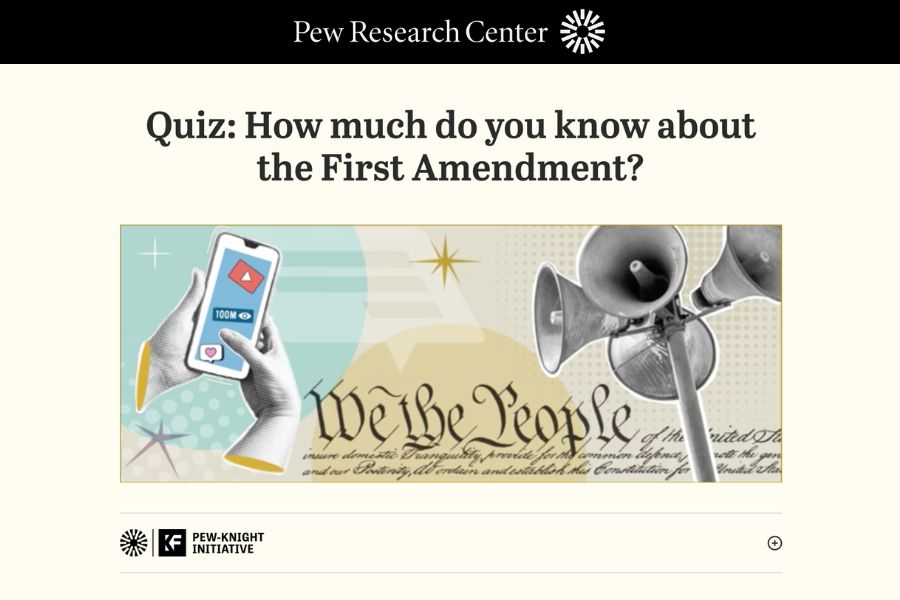
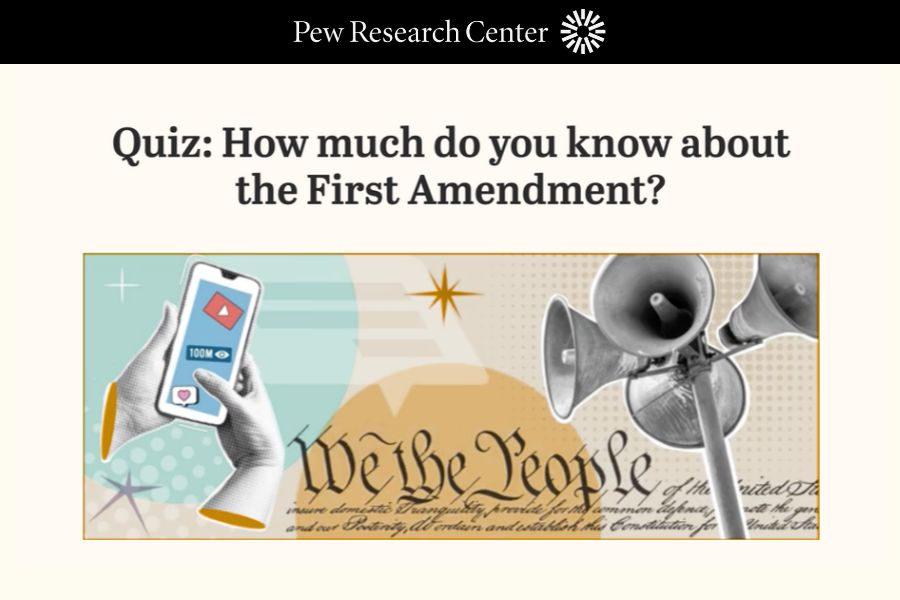
updated some format

diff --git a/css/style.css b/css/style.css
@@ -59,7 +59,7 @@ h1, h2, h3 { font-weight: 400; line-height: 1.05; }
 /* ---------- Header ---------- */
 .site-header {
   position: sticky; top: 0; z-index: 50;
-  background: rgba(253, 253, 253, 0.85);
+  background: rgba(243, 243, 243, 0.85);
   backdrop-filter: saturate(180%) blur(12px);
   border-bottom: 1px solid var(--line);
 }
@@ -179,7 +179,7 @@ h1, h2, h3 { font-weight: 400; line-height: 1.05; }
 .area-more { display: inline-block; margin-top: 22px; font-family: var(--sans); font-size: 0.78rem; letter-spacing: 0.14em; text-transform: uppercase; color: var(--ink); border-bottom: 1px solid var(--ink); padding-bottom: 3px; transition: opacity .2s ease; }
 .area-more:hover { opacity: 0.5; }
 
-/* award line inside a Garden-style card */
+/* award line inside a Projects-style card */
 .projects-item .award { display: block; margin-top: 12px; font-family: var(--sans); font-size: 0.82rem; color: var(--ink); }
 
 /* A row of "issue" links for a project with multiple deliverables (e.g. MoCA) */
@@ -207,11 +207,12 @@ h1, h2, h3 { font-weight: 400; line-height: 1.05; }
 .page-head .page-sub { font-family: var(--sans); color: var(--muted); letter-spacing: 0.06em; margin-top: 16px; }
 .page-head .lead { font-family: var(--sans); color: var(--muted-dark); max-width: 640px; margin: 22px auto 0; letter-spacing: 0.02em; }
 
-/* ---------- Garden ---------- */
+/* ---------- Projects ---------- */
 .project-list { max-width: 940px; margin: 0 auto; display: flex; flex-direction: column; }
 .projects-item { display: grid; grid-template-columns: 320px 1fr; gap: 40px; align-items: center; padding: 44px 0; border-top: 1px solid var(--line); }
-.projects-item:last-child { border-bottom: 1px solid var(--line); }
-.project-thumb { display: block; overflow: hidden; border-radius: 2px; }
+.projects-item:last-child { border-bottom: 0px solid var(--line); }
+.projects-item:first-child { border-top: 0px solid var(--line); }
+.project-thumb { display: block; overflow: hidden; border-radius: 0px; }
 .project-thumb img {
   width: 100%; aspect-ratio: 3 / 2; object-fit: cover;
   transition: filter .4s ease, transform .5s ease;
@@ -233,34 +234,34 @@ h1, h2, h3 { font-weight: 400; line-height: 1.05; }
 }
 
 /* ---------- Multimedia page ---------- */
-.media-section { padding: 60px 0; }
-.media-section + .media-section { border-top: 1px solid var(--line); }
+.media-section { padding: 80px 0; }
+.media-section + .media-section { border-top: 0px solid var(--line); }
 .media-heading { font-family: var(--display); font-size: clamp(1.7rem, 3.5vw, 2.4rem); letter-spacing: 0.02em; margin-bottom: 8px; }
 .media-sub { font-family: var(--sans); color: var(--muted-dark); font-size: 1rem; margin-bottom: 32px; margin-top: 20px; max-width: 90%; }
 
 /* Photography — masonry columns */
-.photo-grid { columns: 4 200px; column-gap: 14px; }
-.photo-grid > * { width: 100%; margin: 0 0 16px; border-radius: 3px; break-inside: avoid; display: block; overflow: hidden; background: var(--bg-soft); }
+.photo-grid { columns: 3 200px; column-gap: 14px; }
+.photo-grid > * { width: 100%; margin: 0 0 16px; border-radius: 0%; break-inside: avoid; display: block; overflow: hidden; background: var(--bg-soft); }
 .photo-grid img { width: 100%; height: auto; display: block; }
 
 /* Graphics — masonry (charts/maps shown in full, never cropped) */
-.gfx-grid { columns: 4; column-gap: 14px; }
-.gfx-grid > * { display: block; break-inside: avoid; margin: 0 0 14px; overflow: hidden; border-radius: 3px; border: 1px solid var(--line); background: var(--bg-soft); }
+.gfx-grid { columns: 3; column-gap: 14px; }
+.gfx-grid > * { display: block; break-inside: avoid; margin: 0 0 14px; overflow: hidden; border-radius: 0px; border: 0px solid var(--line); background: var(--bg-soft); }
 .gfx-grid img { width: 100%; height: auto; display: block; }
 @media (max-width: 1000px) { .gfx-grid { columns: 3; } }
 @media (max-width: 720px) { .gfx-grid { columns: 2; } }
 
 /* Podcast episode list */
 .podcast-list { list-style: none; max-width: 820px; margin: 0; }
-.podcast-list li { border-top: 1px solid var(--line); }
-.podcast-list li:last-child { border-bottom: 1px solid var(--line); }
+.podcast-list li { border-top: 0px solid var(--line); }
+.podcast-list li:last-child { border-bottom: 0cm solid var(--line); }
 .podcast-list a {
   display: flex; align-items: center;
   padding: 16px 6px;
   font-family: var(--sans); font-size: 1.02rem; line-height: 1.4; color: var(--ink);
   transition: color .18s ease, padding-left .18s ease;
 }
-.podcast-list a:hover { color: var(--muted-dark); padding-left: 12px; }
+.podcast-list a:hover { color: var(--muted-dark); padding-left: 8px; }
 
 @media (max-width: 640px) {
   .photo-grid { columns: 2 140px; }
@@ -268,7 +269,7 @@ h1, h2, h3 { font-weight: 400; line-height: 1.05; }
 }
 
 /* ---------- Section shell ---------- */
-.section { padding: 90px 0; }
+.section { padding: 100px 0; }
 
 /* ---------- Footer ---------- */
 .site-footer { background: var(--ink); color: #fff; padding: 44px 0 36px; text-align: center; }

diff --git a/design-development.html b/design-development.html
@@ -45,7 +45,7 @@
               <img src="assets/Pics/proj-engagement.jpg" alt="What is your civic personality?" />
             </a>
             <div class="project-body">
-              <span class="project-tag">Content &amp; Interactive Design, 2026</span>
+              <span class="project-tag">Interactive Design, 2026</span>
               <h3><a href="https://www.pewresearch.org/journalism/quiz/what-is-your-civic-personality/" target="_blank" rel="noopener">What is your civic personality?</a></h3>
               <p>Interactive report about Americans' civic engagement types.</p>
             </div>
@@ -56,7 +56,7 @@
               <img src="assets/Pics/proj-pressfreedom.jpg" alt="How much do you know about the First Amendment?" />
             </a>
             <div class="project-body">
-              <span class="project-tag">Content &amp; Interactive Design, 2026</span>
+              <span class="project-tag">Interactive Design, 2026</span>
               <h3><a href="https://www.pewresearch.org/journalism/quiz/how-much-do-you-know-about-the-first-amendment/" target="_blank" rel="noopener">How much do you know about the First Amendment?</a></h3>
               <p>Interactive quiz about press freedom.</p>
             </div>
@@ -122,7 +122,7 @@
               <img src="assets/Pics/proj-moca.jpg" alt="MoCA" />
             </a>
             <div class="project-body">
-              <span class="project-tag">Content Design &amp; Typography, 2021 (Language: CN)</span>
+              <span class="project-tag">Content Design &amp; Typography, 2021 (CN)</span>
               <h3><a href="https://df5c69c3-2afd-46cb-9e7e-00ff5acc9151.filesusr.com/ugd/dc80ff_1a01116c271a4a3db30b0177b316f587.pdf" target="_blank" rel="noopener">MovieMag, MoCA Shanghai</a></h3>
               <p>Magazine content and typography design for the Museum of Contemporary Art Shanghai.</p>
               <div class="project-issues">
